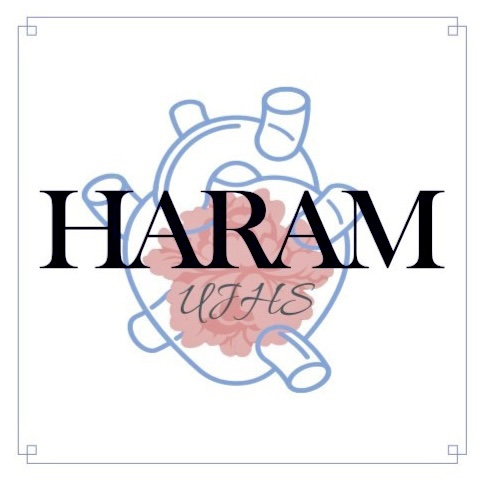
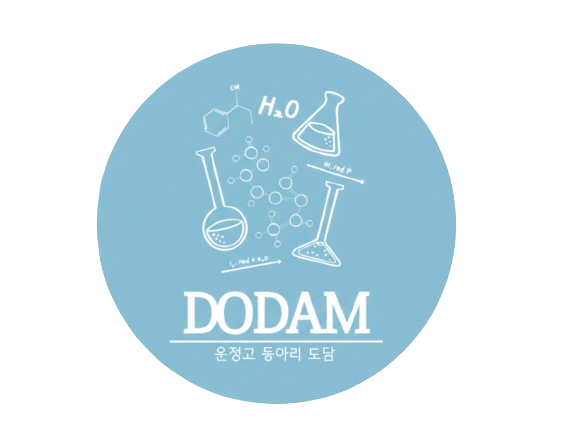
이미지왕창추가

diff --git a/app/templates/profile.html b/app/templates/profile.html
@@ -26,12 +26,13 @@
                 <span class="user-rank">전체 1위</span>
             </div>
             <!-- 버튼 -->
-            <button id="ranking_btn">
+            <a id="ranking_btn" href="{{ url_for('main.rank') }}">
                 <img src="{{ url_for('static', filename='images/ranking_icon.png') }}" alt="랭킹">
-            </button>
-            <button id="settings_btn">
+            </a>
+
+            <a id="settings_btn" href="{{ url_for('main.settings') }}">
                 <img src="{{ url_for('static', filename='images/settings_icon.png') }}" alt="설정">
-            </button>
+            </a>
         </nav>
 
         <button id="logout_btn">로그아웃</button>